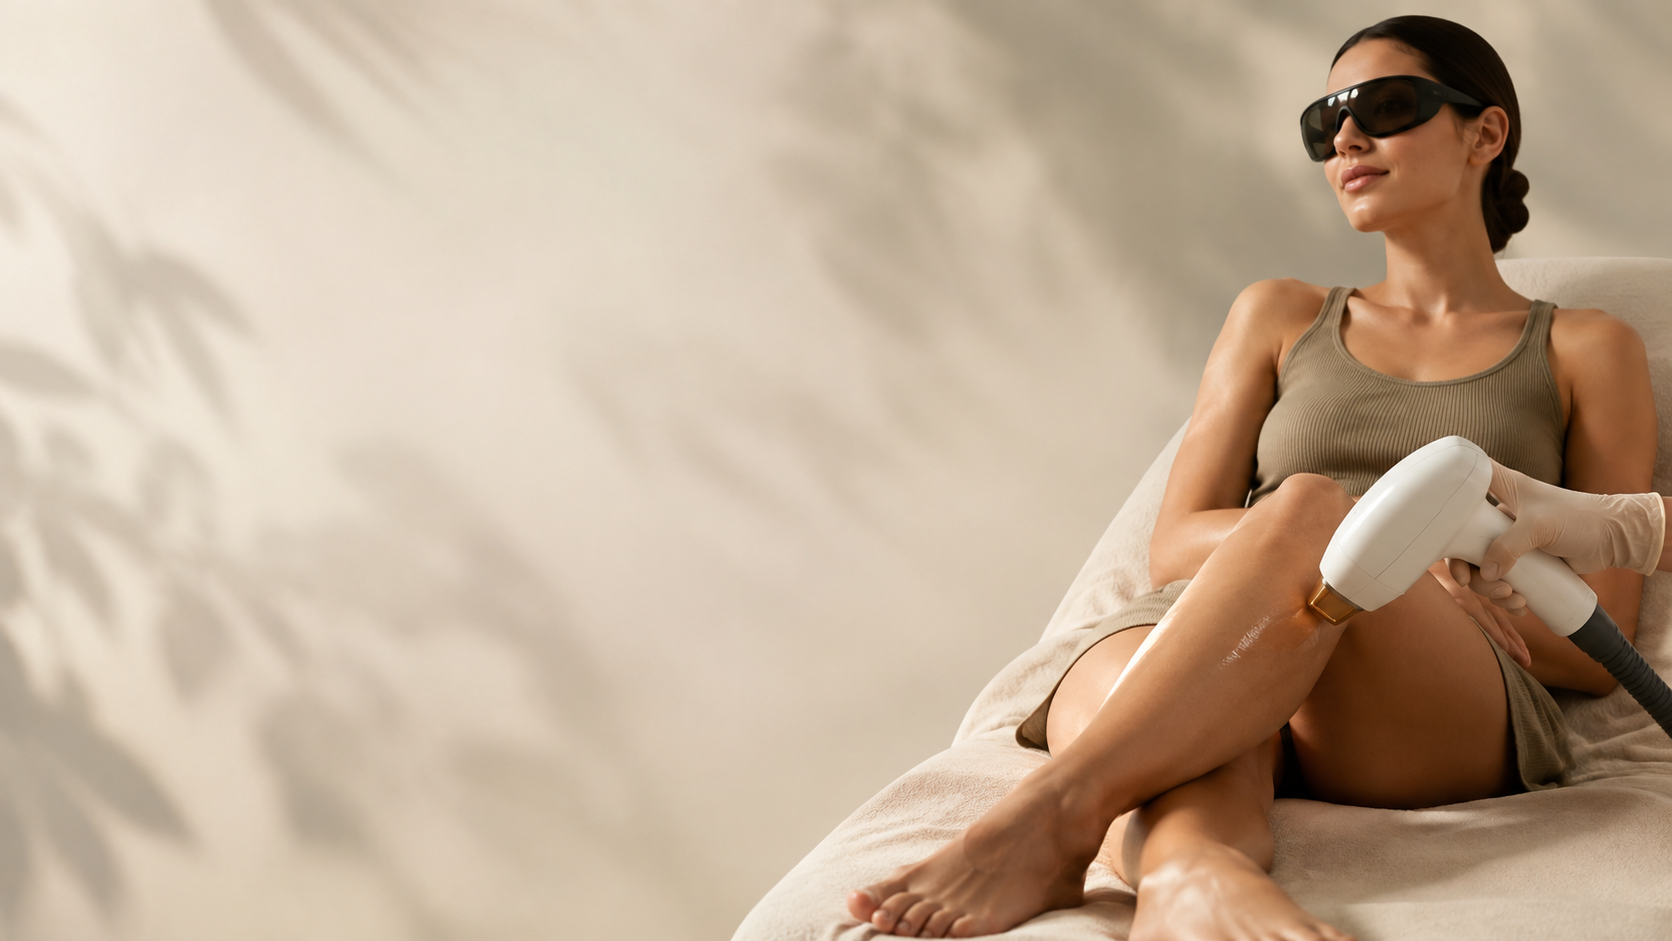
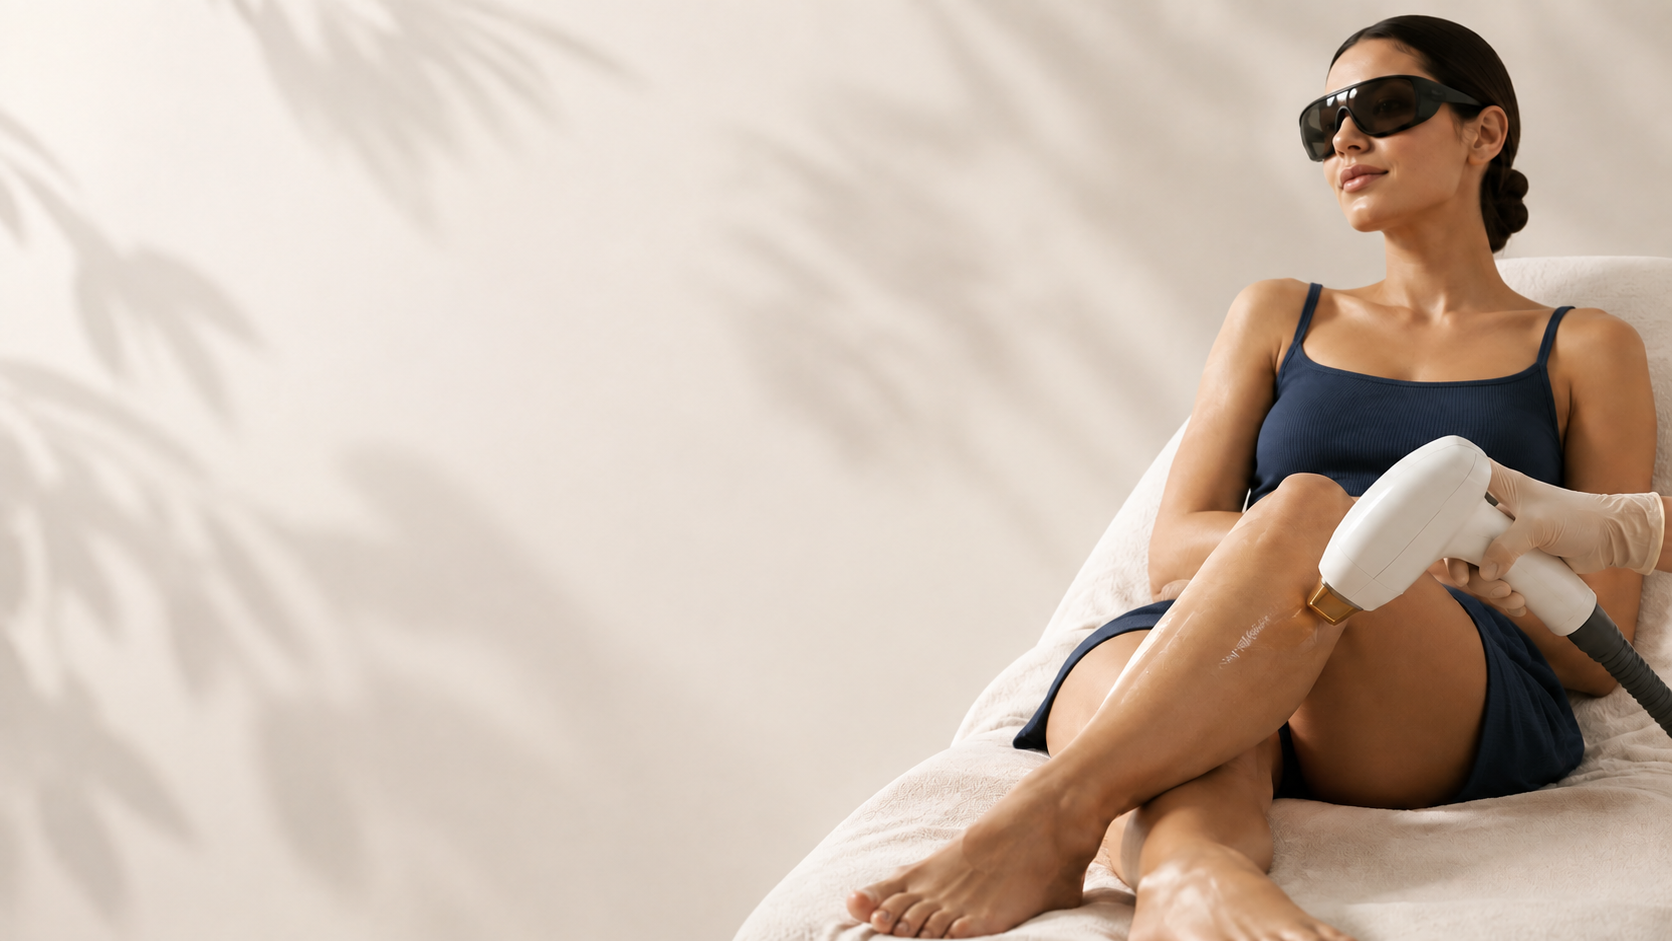
feat: switch to dark-blue + cream brand palette, keep olive version

diff --git a/web/src/components/design-system/navigation/PhoneCallout.jsx b/web/src/components/design-system/navigation/PhoneCallout.jsx
@@ -7,14 +7,14 @@ export function PhoneCallout({ phone = '(905) 920-7229', label = 'Call or Text' 
       fontFamily: 'var(--font-body)', flexShrink: 0, whiteSpace: 'nowrap',
     }}>
       <span style={{
-        width: 38, height: 38, borderRadius: '50%', border: '1px solid #667052',
+        width: 38, height: 38, borderRadius: '50%', border: '1px solid var(--color-brand-primary)',
         display: 'flex', alignItems: 'center', justifyContent: 'center', flexShrink: 0,
       }}>
-        <svg width="17" height="17" viewBox="0 0 24 24" fill="none" stroke="#667052" strokeWidth="1.5"><path d="M22 16.92v3a2 2 0 0 1-2.18 2 19.79 19.79 0 0 1-8.63-3.07 19.5 19.5 0 0 1-6-6 19.79 19.79 0 0 1-3.07-8.67A2 2 0 0 1 4.11 2h3a2 2 0 0 1 2 1.72c.127.96.362 1.903.7 2.81a2 2 0 0 1-.45 2.11L8.09 9.91a16 16 0 0 0 6 6l1.27-1.27a2 2 0 0 1 2.11-.45c.907.338 1.85.573 2.81.7A2 2 0 0 1 22 16.92z"/></svg>
+        <svg width="17" height="17" viewBox="0 0 24 24" fill="none" stroke="var(--color-brand-primary)" strokeWidth="1.5"><path d="M22 16.92v3a2 2 0 0 1-2.18 2 19.79 19.79 0 0 1-8.63-3.07 19.5 19.5 0 0 1-6-6 19.79 19.79 0 0 1-3.07-8.67A2 2 0 0 1 4.11 2h3a2 2 0 0 1 2 1.72c.127.96.362 1.903.7 2.81a2 2 0 0 1-.45 2.11L8.09 9.91a16 16 0 0 0 6 6l1.27-1.27a2 2 0 0 1 2.11-.45c.907.338 1.85.573 2.81.7A2 2 0 0 1 22 16.92z"/></svg>
       </span>
       <div style={{ display: 'flex', flexDirection: 'column', lineHeight: 1.25 }}>
-        <span style={{ fontSize: 18, fontWeight: 600, whiteSpace: 'nowrap', color: '#252624' }}>{phone}</span>
-        <span style={{ fontSize: 13, color: '#6B6C67' }}>{label}</span>
+        <span style={{ fontSize: 18, fontWeight: 600, whiteSpace: 'nowrap', color: 'var(--color-text-primary)' }}>{phone}</span>
+        <span style={{ fontSize: 13, color: 'var(--color-text-secondary)' }}>{label}</span>
       </div>
     </a>
   );

diff --git a/web/src/components/design-system/core/Button.jsx b/web/src/components/design-system/core/Button.jsx
@@ -23,14 +23,14 @@ export function Button({ variant = 'primary', size = 'md', icon, iconPosition = 
     ...sizeStyles[size],
   };
   const variants = {
-    primary: { background: '#4F5B3A', color: '#FBFAF7' },
+    primary: { background: 'var(--cta-primary-bg)', color: 'var(--cta-primary-text)' },
     secondary: { background: 'var(--cta-secondary-bg)', color: 'var(--cta-secondary-text)', borderColor: 'var(--cta-secondary-border)' },
     ghost: { background: 'transparent', color: 'var(--color-brand-deep)' },
   };
   const hover = {
-    primary: { background: '#3d4630' },
-    secondary: { background: 'rgba(102,112,82,0.08)' },
-    ghost: { background: 'rgba(102,112,82,0.06)' },
+    primary: { background: 'var(--cta-primary-hover)' },
+    secondary: { background: 'rgba(108,149,183,0.08)' },
+    ghost: { background: 'rgba(108,149,183,0.06)' },
   };
   const [isHover, setHover] = React.useState(false);
   return (

diff --git a/web/src/styles/design-system/tokens/colors-olive.css b/web/src/styles/design-system/tokens/colors-olive.css
@@ -1,17 +1,17 @@
 :root{
---olive-50:#FBFAF7;
---olive-100:#F5F2EB;
+--olive-50:#F5F2EB;
+--olive-100:#FBFAF7;
 --olive-200:#D9D5C8;
 --olive-300:#DDD8CF;
---olive-500:#6C95B7;
---olive-600:#304B74;
---olive-700:#223653;
+--olive-500:#87907A;
+--olive-600:#667052;
+--olive-700:#4F5B3A;
 --ink-900:#252624;
 --ink-600:#64655F;
 --white:#FFFFFF;
 
---color-bg-linen:var(--olive-100);
---color-bg-warm-white:var(--olive-50);
+--color-bg-linen:var(--olive-50);
+--color-bg-warm-white:var(--olive-100);
 --color-bg-stone:var(--olive-200);
 --color-brand-primary:var(--olive-600);
 --color-brand-deep:var(--olive-700);
@@ -26,8 +26,7 @@
 --surface-inverse:var(--ink-900);
 
 --cta-primary-bg:var(--olive-700);
---cta-primary-text:var(--olive-50);
---cta-primary-hover:var(--olive-600);
+--cta-primary-text:var(--olive-100);
 --cta-secondary-bg:transparent;
 --cta-secondary-border:var(--olive-600);
 --cta-secondary-text:var(--ink-900);

diff --git a/web/src/app/layout.tsx b/web/src/app/layout.tsx
@@ -11,7 +11,7 @@ export const metadata: Metadata = {
 export default function RootLayout({ children }: { children: ReactNode }) {
   return (
     <html lang="en" className="antialiased">
-      <body className="min-h-screen bg-olive-50 text-ink-900 font-body">
+      <body className="min-h-screen bg-olive-100 text-ink-900 font-body">
         <div className="mx-auto w-full min-h-screen max-w-[1480px] bg-olive-50 shadow-lg">
           {children}
         </div>

diff --git a/web/src/app/globals.css b/web/src/app/globals.css
@@ -18,7 +18,7 @@
 }
 
 body {
-  background: #404733;
+  background: var(--olive-100);
   color: var(--ink-900);
   font-family: var(--font-body);
 }
